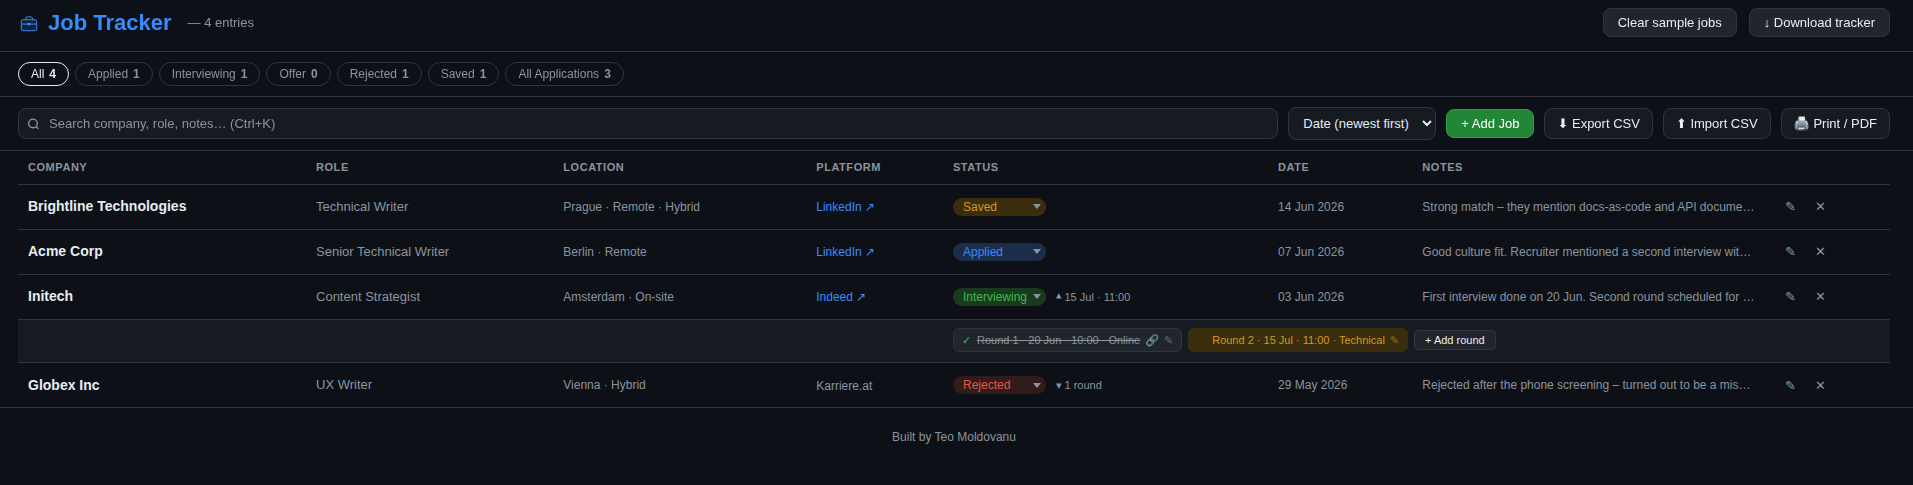
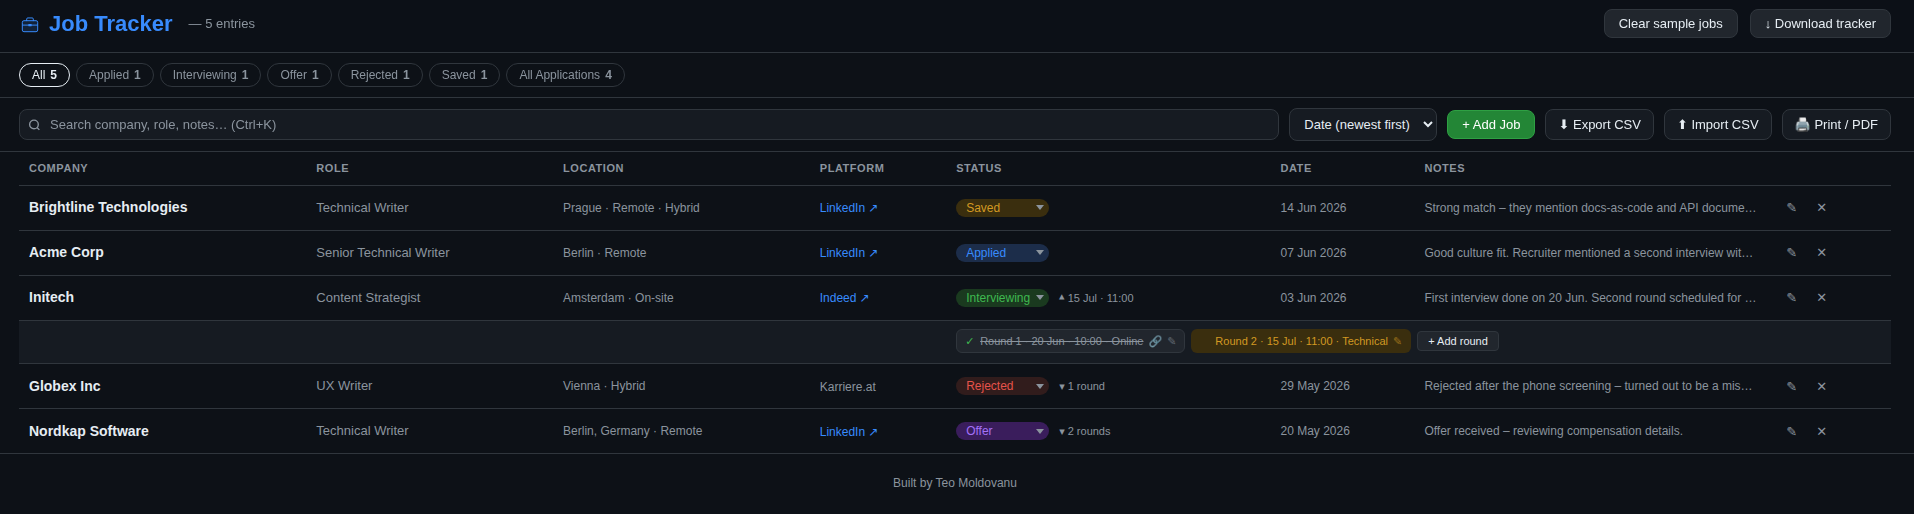
Add Offer example (Nordkap Software) to seed data, update screenshot

diff --git a/index.html b/index.html
@@ -352,6 +352,11 @@ const SEED = [
       {id:'seed-r3',datetime:'2026-07-15T11:00',type:'Technical',link:'',attendees:'Marc de Groot (Hiring Manager), Els Bakker (Content Lead)',notes:'Prep: review portfolio pieces on docs-as-code migration.',done:false},
     ]},
   {c:'Brightline Technologies',t:'Technical Writer',l:'Prague · Remote',w:'Hybrid',p:'LinkedIn',u:'https://example.com/jobs/brightline-tw',s:'Saved',n:'Strong match – they mention docs-as-code and API documentation experience as key requirements.',d:'2026-06-14'},
+  {c:'Nordkap Software',t:'Technical Writer',l:'Berlin, Germany',w:'Remote',p:'LinkedIn',u:'https://example.com/jobs/nordkap-tw',s:'Offer',n:'Offer received – reviewing compensation details.',d:'2026-05-20',
+    ir:[
+      {id:'seed-r6',datetime:'2026-06-01T10:00',type:'Online',link:'https://meet.google.com/nordkap-r1',attendees:'Priya Shah (Recruiter)',notes:'Recruiter screen. Discussed role scope and salary band.',outcome:'passed',done:true},
+      {id:'seed-r7',datetime:'2026-06-10T14:00',type:'Online',link:'https://meet.google.com/nordkap-r2',attendees:'Priya Shah (Recruiter), Daniel Weiss (Content Lead)',notes:'Portfolio review and a writing exercise walkthrough.',outcome:'passed',done:true},
+    ]},
 ];
 
 const PLATFORM_BASE = [
